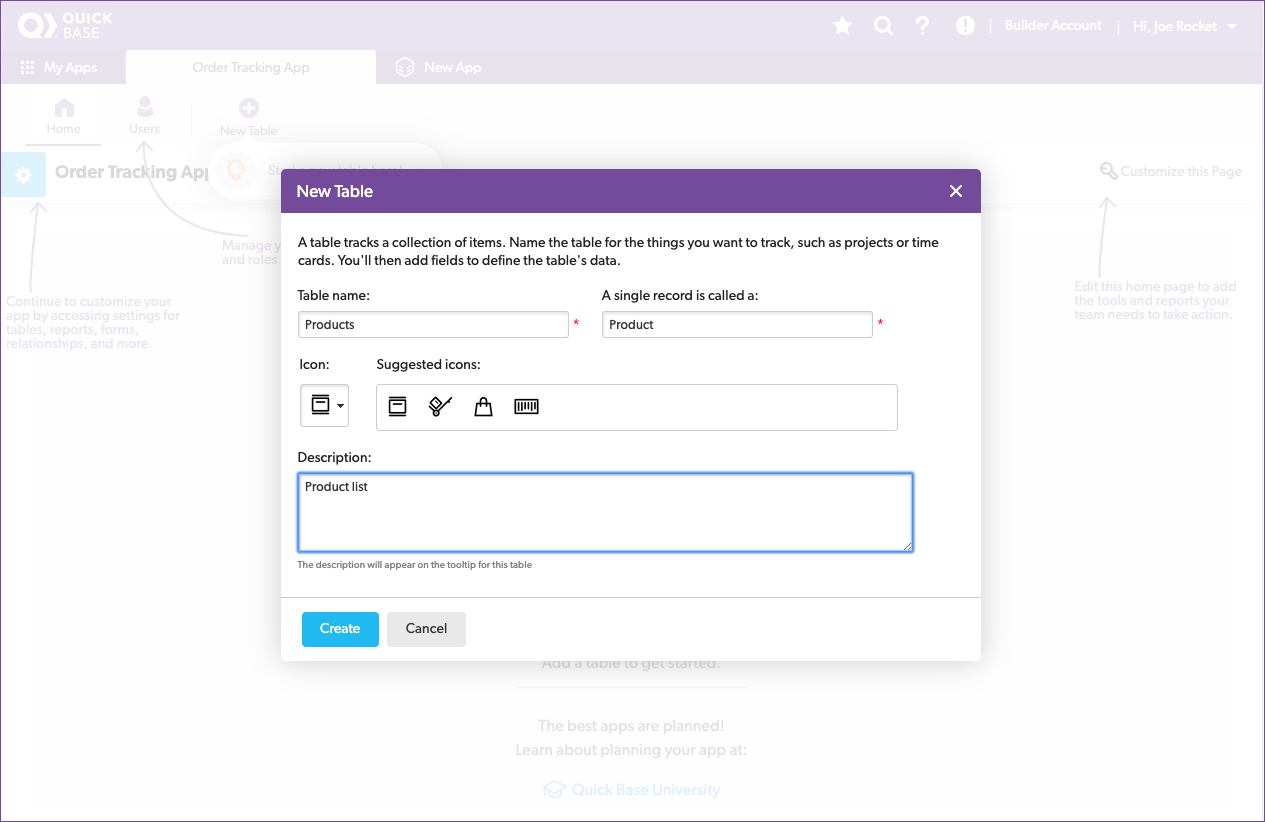
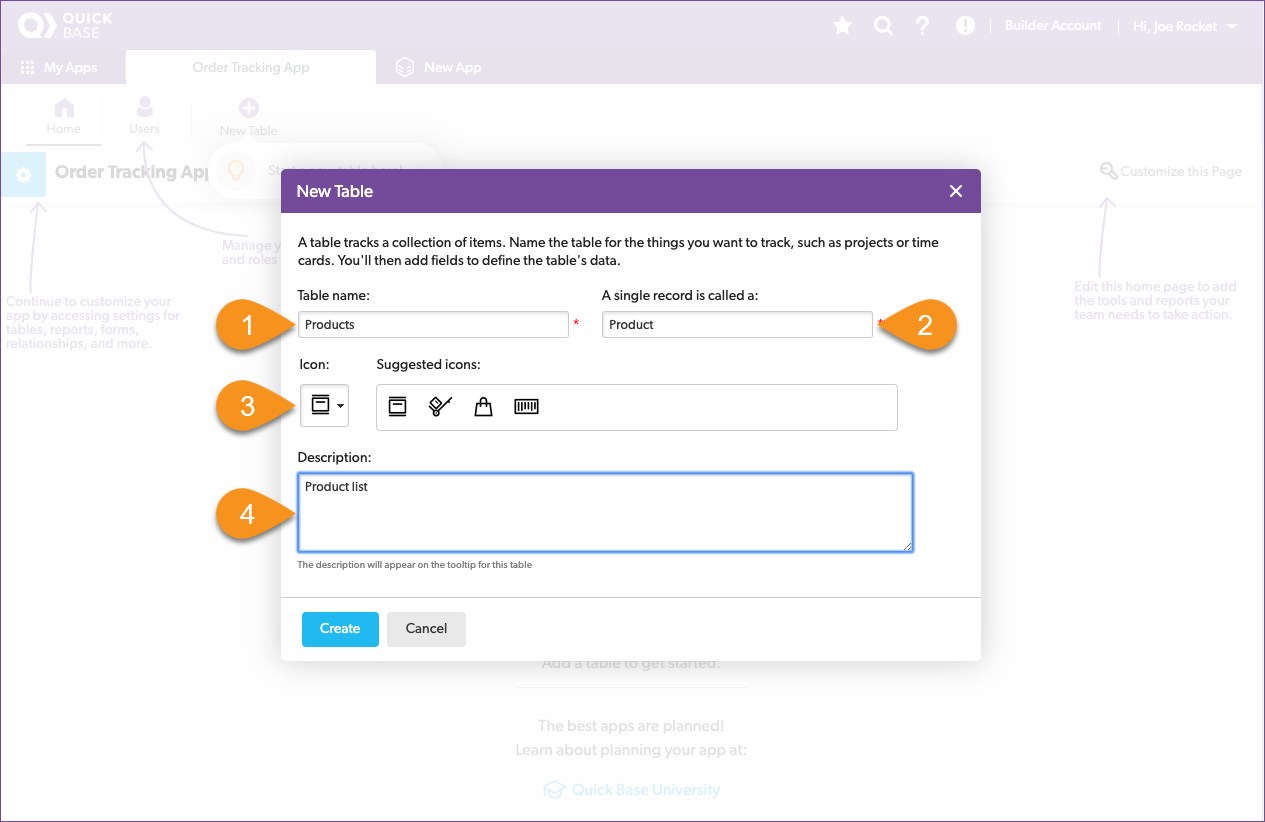
added pointers
CreateApp is complete, createProducts is half done

Changed region(s): [[0.1542, 0.365, 0.2466, 0.5474], [0.6783, 0.365, 0.7708, 0.4562], [0.1542, 0.5779, 0.2466, 0.6691]]

diff --git a/createProducts.md b/createProducts.md
@@ -22,30 +22,33 @@ Reviewing the spreadsheet, you write down the following notes:
 | Product Name | The name of the product | text |
 | Unit Price | The price | currency |
 
-To add a table to Quick Base, first you describe what a table is going to store before filling it with data. Let's take what we learned from the spreadsheet and configure a table to hold the product information. Start by clicking the **New Table** button from the table navigation bar. 
+To add a table to Quick Base, first you describe what a table is going to store before filling it with data. Let's take what we learned from the spreadsheet and configure a table to hold the product information. Let's get started!
+1. Click the **New Table** button from the table navigation bar. 
+2. Select **From scratch — Design your own table.**
 
 ![](assets/images/image-3.png)
-
-Then select **From scratch — Design your own table.**
 
 ![](assets/images/image-4.png)
 
 Configure the table by giving it a name, record name, icon, and a description to describe how it's used.
 
-![](assets/images/image-5.png)
 1. Name the table: _Products_
 2. A single record is called a: _Product_
 3. Select an icon to represent your table — we chose the first suggested icon
 4. Provide a description: _List of products we sell_
 5. Click the **Create** button
 
+![](assets/images/image-5.png)
+
 Great! Creating the table is the first half of the configuration process. Next, add fields to the table and identify what kind of data they store. Remember, field names are like the column headers in a spreadsheet. We'll add the fields based on what we observed in Drew's spreadsheet.  
 
-![](assets/images/image-6.png)
+
 
 1. Fill in a field label for each of the column names from the spreadsheet
 2. Select the data type for each field based on what we observed
 3. Click the **Add** button
+
+![](assets/images/image-6.png)
 
 > **Congratulations!** You just created your first Quick Base table!
 

diff --git a/createApp.md b/createApp.md
@@ -13,7 +13,7 @@ Taking a recommendation from a friend, you decide to try building an app using Q
 
 The `My Apps` page in Quick Base is the central repository for all the apps that you create or have access to. You can always return here by clicking the **My Apps** tab in the app bar.
 
-![](assets/images/image-1.png)
+![](assets/images/image-0.png)
 
 Let's take the plunge and create our first app:  
 1. From the My Apps page, click the large <b>Create new app</b> button   
@@ -24,6 +24,9 @@ Let's take the plunge and create our first app:
 6. Select a color for the app
 7. Click <b>Create app</b>
 
+![](assets/images/image-1.png)
+
+![](assets/images/image-1a.png)
 
 ![](assets/images/image-2.png)
 
